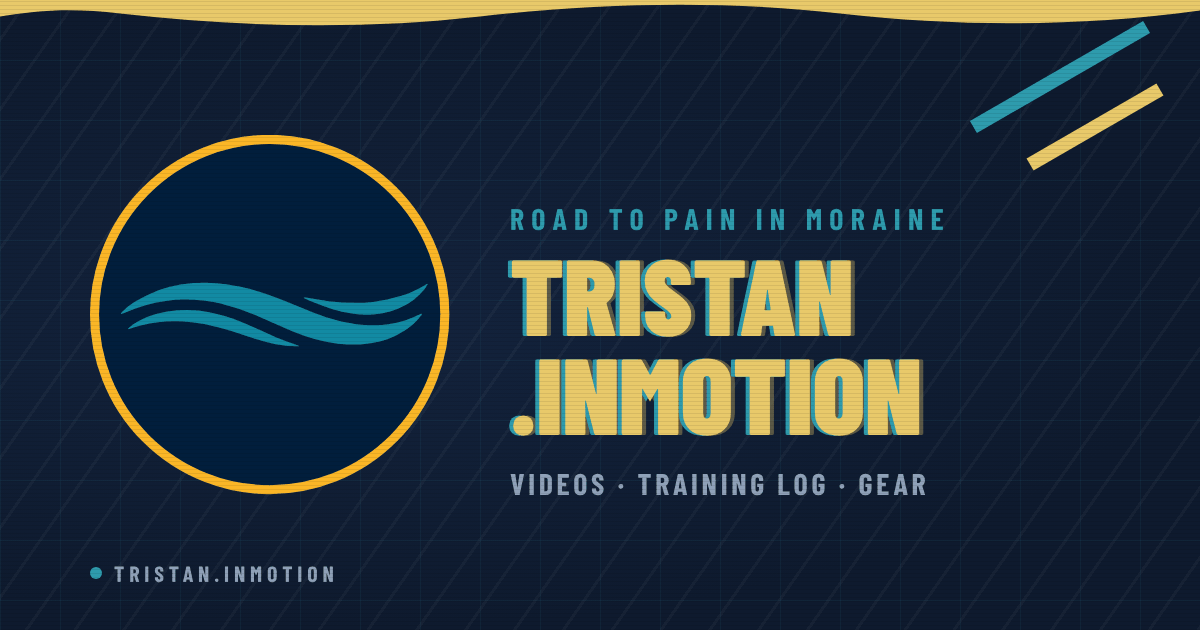
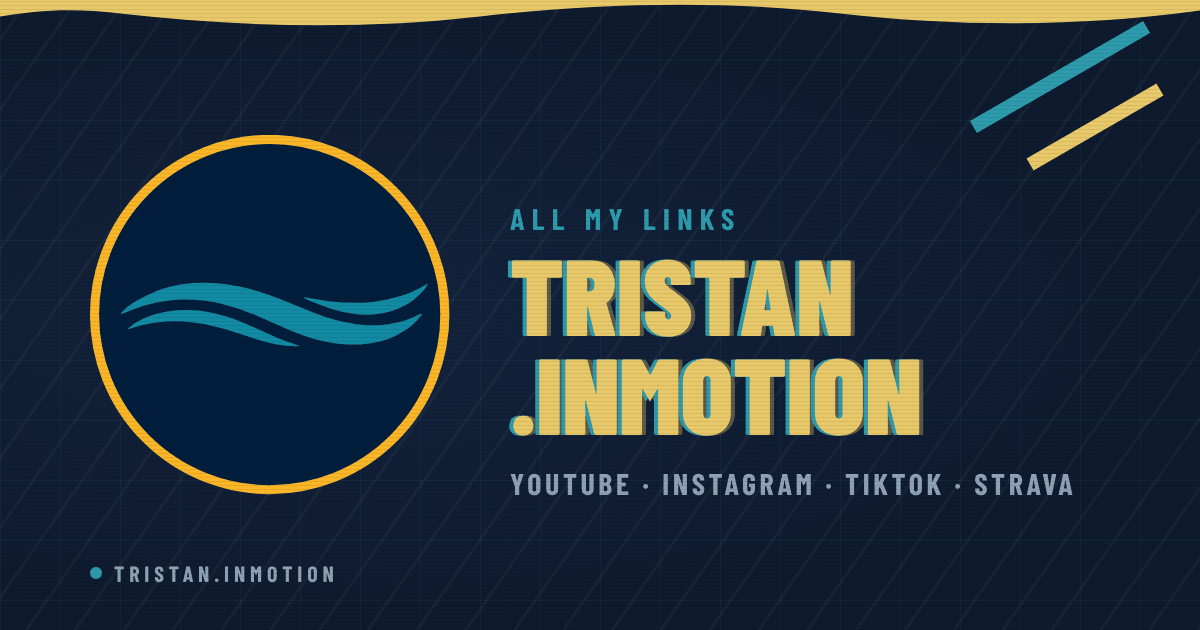
Link preview: about the links, not the race
Claude-Session: https://claude.ai/code/session_016KkugW8dGTqnLXK3PCzT1X

Changed region(s): [[0.4317, 0.754, 0.8942, 0.7841], [0.4008, 0.3317, 0.8017, 0.3619]]

diff --git a/index.html b/index.html
@@ -1,10 +1,10 @@
 <!doctype html><html lang="en"><head><meta charset="utf-8"><meta name="viewport" content="width=device-width, initial-scale=1, viewport-fit=cover">
 <title>T.im Links</title>
-<meta name="description" content="Training toward Pain in Moraine, out loud. Videos, my training log, and the gear I actually use.">
+<meta name="description" content="All my links: YouTube, Instagram, TikTok, Facebook, Strava, and the gear I use.">
 <meta property="og:type" content="website">
 <meta property="og:url" content="https://chiefcrackt.github.io/links-inMotion/">
-<meta property="og:title" content="tristan.inmotion">
-<meta property="og:description" content="Videos, my training log, and the gear I actually use.">
+<meta property="og:title" content="tristan.inmotion · links">
+<meta property="og:description" content="YouTube, Instagram, TikTok, Facebook, Strava, and the gear I use.">
 <meta property="og:image" content="https://chiefcrackt.github.io/links-inMotion/og.png">
 <meta property="og:image:width" content="1200"><meta property="og:image:height" content="630">
 <meta property="og:image:alt" content="tristan.inmotion badge with teal waves on navy">
